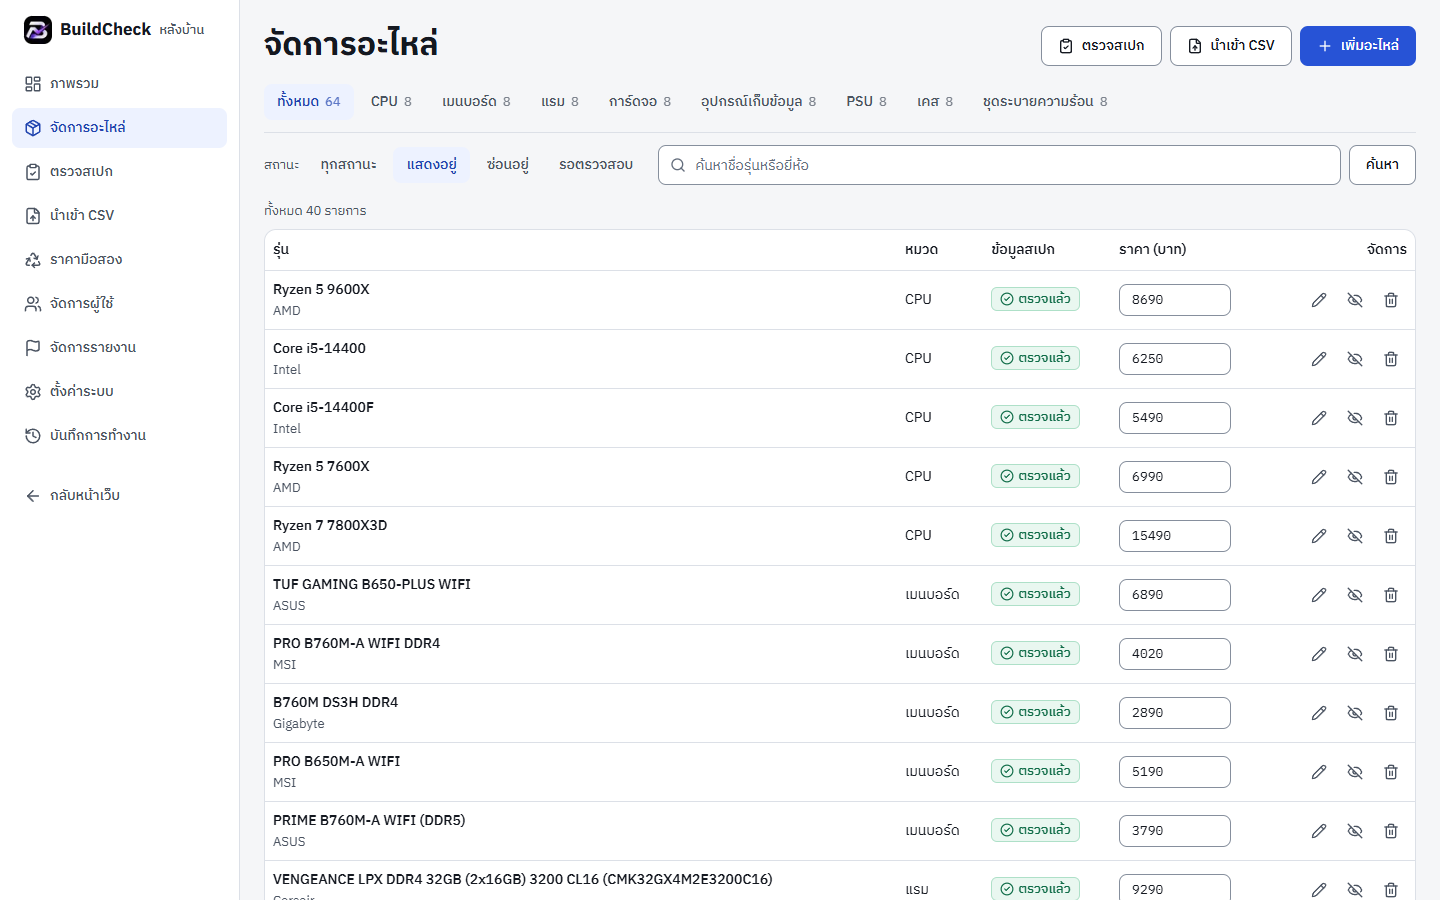
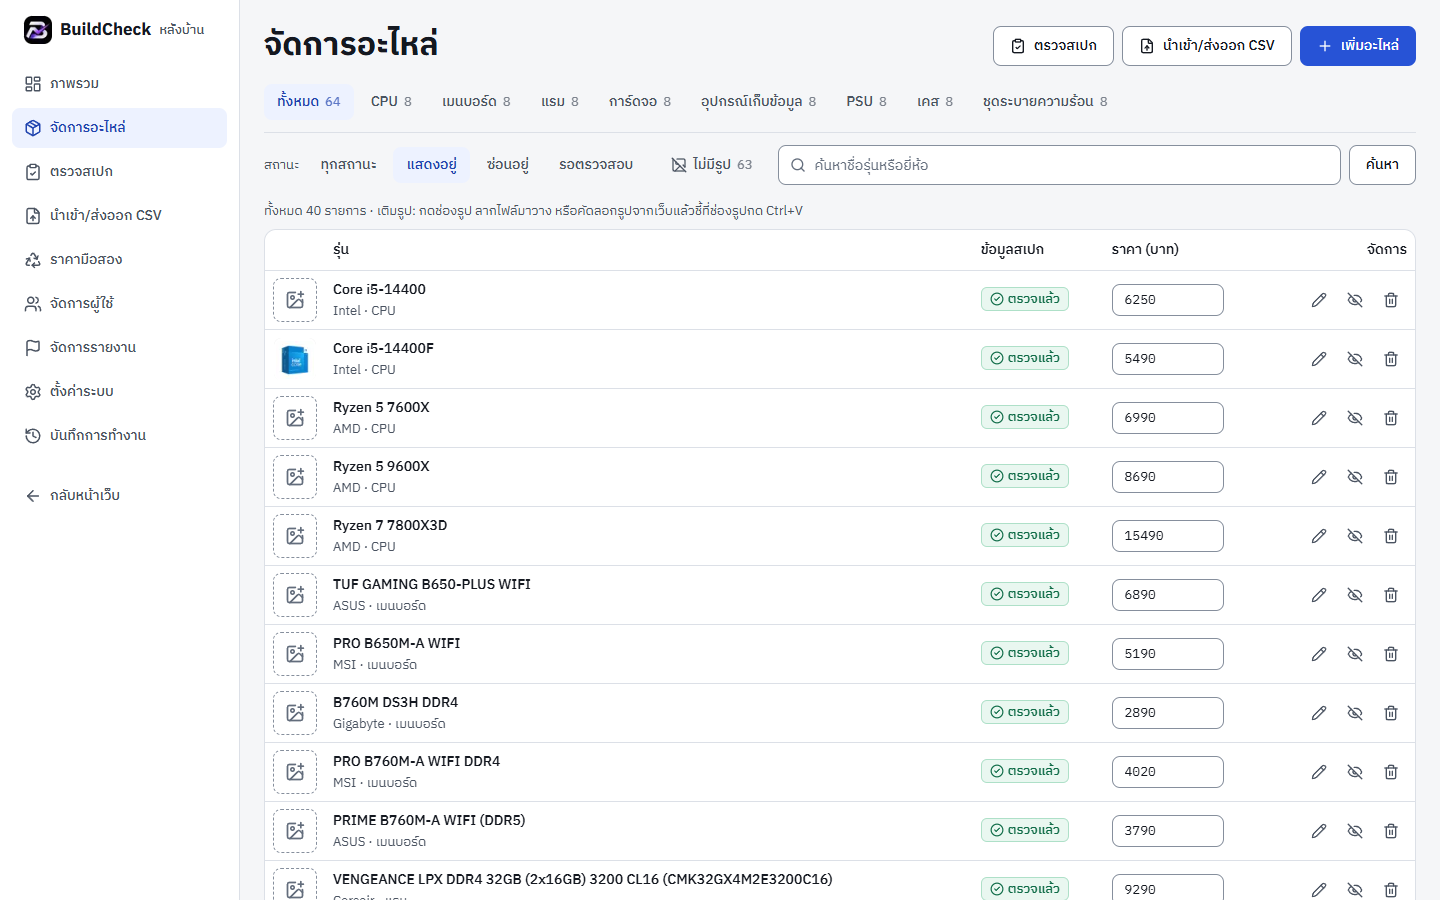
รูปหน้าจอหลังบ้าน 4.19–4.21 และ 4.25 ถ่ายใหม่ให้ตรงกับหน้าปัจจุบัน (ส่งออก CSV วางรูปด้วย Ctrl+V ราคาสำรวจไม่หมดอายุ) · ฟอร์มบันทึกราคาสำรวจใช้ 2 คอลัมน์ ช่องเกรดและวันที่ไม่ขาด

diff --git a/src/components/admin/used-admin.tsx b/src/components/admin/used-admin.tsx
@@ -169,7 +169,8 @@ export function SurveyForm({ today }: { today: string }) {
       }}
     >
       <PartSearchField value={part} onChange={setPart} />
-      <div className="grid gap-3 sm:grid-cols-2 xl:grid-cols-4">
+      {/* ฟอร์มอยู่ในกล่องครึ่งจอ 4 คอลัมน์แคบจนช่องเกรดและวันที่ขาด จึงใช้ 2 คอลัมน์ทุกขนาดจอ */}
+      <div className="grid gap-3 sm:grid-cols-2">
         <div className="flex flex-col gap-1.5">
           <Label htmlFor="survey-grade">เกรด</Label>
           <NativeSelect

diff --git a/docs/report-chapters-3-4.md b/docs/report-chapters-3-4.md
@@ -217,18 +217,18 @@ BuildCheck เป็นเว็บแอปพลิเคชันจัดส
 | 4.14–4.16 | `14-mobile-home.png` · `15-mobile-parts.png` · `16-mobile-budget.png` | หน้าจอบนมือถือ (แถบเมนูด้านล่าง) |
 | 4.17 | `17-home-dark.png` | โหมดมืด |
 
-**รูปหน้าหลังบ้าน** ถ่ายจากเครื่องพัฒนาด้วยบัญชีแอดมินทดสอบ (อะไหล่ชุดเดียวกับเว็บจริง แต่จำนวนผู้ใช้และรายงานเป็นข้อมูลทดสอบ) อีเมลจริงในรูปถูกปิดไว้
+**รูปหน้าหลังบ้าน** ถ่ายจากเครื่องพัฒนาด้วยบัญชีแอดมินทดสอบ (อะไหล่ชุดแรก 40 รุ่นเดียวกับเว็บจริง แต่จำนวนผู้ใช้และรายงานเป็นข้อมูลทดสอบ) อีเมลจริงในรูปถูกปิดไว้ · รูป 4.19–4.21 และ 4.25 ถ่ายใหม่เมื่อ 18 พ.ย. 2569 หลังเพิ่มการส่งออก CSV และการวางรูปด้วย Ctrl+V
 
 | รูป | ไฟล์ | คำอธิบาย |
 |---|---|---|
 | 4.18 | `18-admin-dashboard.png` | ภาพรวมหลังบ้าน: จำนวนสมาชิก สเปก อะไหล่ รายงานที่รอตรวจ และกราฟรายวัน |
-| 4.19 | `19-admin-parts.png` | จัดการอะไหล่ แยกแท็บตามหมวด กรองสถานะ แก้ราคาในตารางได้ทันที |
-| 4.20 | `20-admin-part-edit.png` | แก้ไขอะไหล่: ข้อมูลกลาง สถานะการขาย แหล่งอ้างอิงสเปก รูป และสเปกเฉพาะหมวด |
-| 4.21 | `21-admin-import.png` | นำเข้าอะไหล่จาก CSV (เพิ่มใหม่หรืออัปเดตชิ้นเดิม) |
+| 4.19 | `19-admin-parts.png` | จัดการอะไหล่ แยกแท็บตามหมวด กรองสถานะและชิ้นที่ไม่มีรูป แก้ราคาในตารางได้ทันที ตั้งรูปได้จากช่องรูป (เลือกไฟล์ ลากวาง หรือวางด้วย Ctrl+V) |
+| 4.20 | `20-admin-part-edit.png` | แก้ไขอะไหล่: ข้อมูลกลาง สถานะการขาย แหล่งอ้างอิงสเปก รูป (เลือกไฟล์หรือวางด้วย Ctrl+V) และสเปกเฉพาะหมวด |
+| 4.21 | `21-admin-import.png` | นำเข้าและส่งออกอะไหล่ (CSV): นำเข้าเพิ่มใหม่หรืออัปเดตชิ้นเดิม และส่งออกข้อมูลปัจจุบันของหมวดเป็นไฟล์สำรอง |
 | 4.22 | `22-admin-review.png` | ตรวจสเปกอะไหล่ที่ยังไม่ได้ยืนยันกับแหล่งอ้างอิง |
 | 4.23 | `23-admin-users.png` | จัดการผู้ใช้: เปลี่ยนสิทธิ์ ระงับ และยืนยันอีเมลให้ |
 | 4.24 | `24-admin-reports.png` | จัดการรายงานเนื้อหาไม่เหมาะสม |
-| 4.25 | `25-admin-used-prices.png` | อนุมัติรายงานราคามือสอง และบันทึกราคาที่สำรวจเอง |
+| 4.25 | `25-admin-used-prices.png` | อนุมัติรายงานราคามือสอง และบันทึกราคาที่สำรวจเอง (นำเข้าและส่งออก CSV ได้ ราคาที่บันทึกไม่มีวันหมดอายุ) |
 | 4.26 | `26-admin-settings.png` | ตั้งค่ากฎตรวจและสัดส่วนงบของแต่ละประเภทการใช้งาน |
 | 4.27 | `27-admin-logs.png` | บันทึกการทำงานของแอดมิน พร้อมค่าก่อนและหลัง |
 
